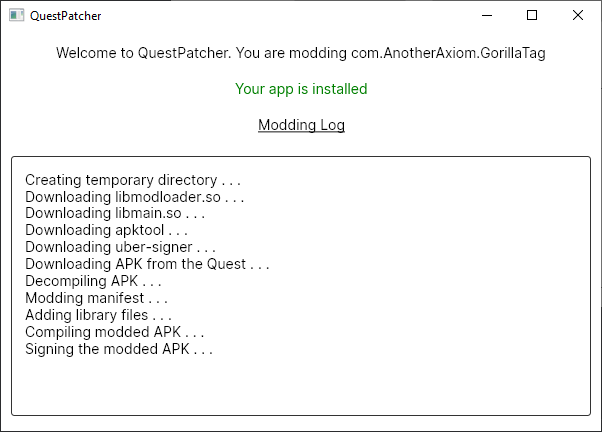
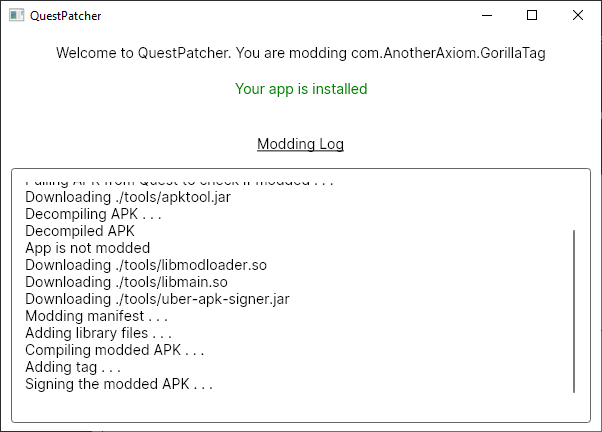
QUEST INSTRUCTIONS YAY :D

diff --git a/docs/assets/js/docsify-pagination.js b/docs/assets/js/docsify-pagination.js
@@ -248,8 +248,28 @@ var Link = function () {
     }
     this.chapter = findChapter(element);
     this.hyperlink = findHyperlink(element);
-/** THIS IS WHERE YOU PUT THE NO NAV BUTTONS PAGES */
-		let badsites = ["pc-guide", "quest-guide", "faq", "donations", "about"]
+/** THIS IS WHERE YOU PUT THE NO NAV BUTTONS PAGES 
+ * 
+ * 
+ * 
+ * 
+ * 
+ * 
+ * 
+ * 
+ * 
+ * 
+ * 
+ * 
+ * 
+ * 
+ * 
+ * 
+ * 
+ * 
+ * 
+*/
+		let badsites = ["pc-guide", "quest-guide", "faq", "tips", "about"]
 		let currentpage = window.location.href
 		let lastItem = currentpage.split('/').pop()
 		if (badsites.includes(lastItem)){

diff --git a/docs/user-guide/quest/beginners-guide.md b/docs/user-guide/quest/beginners-guide.md
@@ -7,7 +7,7 @@
 
 ## Installation
 
-Currently the only recommended way to install mods is **QuestPatcher**. Download **QuestPatcher** from [Lauriethefish's GitHub](https://github.com/Lauriethefish/QuestPatcher/releases/latest). Select the **Assets** dropdown and download the .zip file named `QuestPatcher.zip`. Extract this zip file to a folder of your choosing (that is not a folder that requires administrator permissions like Program Files.)
+Currently the only recommended way to install mods is **QuestPatcher**. Download **QuestPatcher** from [Lauriethefish's GitHub](https://github.com/Lauriethefish/QuestPatcher/releases/latest). Select the **Assets** dropdown and download the .exefile named `QuestPatcher.exe`. Double-click the executable to begin installing, and follow the instructions.
 
 > Note: If Windows alerts you that the file is unsafe/at risk, choose to keep/run anyway. This is a false-positive.
 
@@ -17,7 +17,7 @@ Currently the only recommended way to install mods is **QuestPatcher**. Download
 
 ?> **Plug in your Quest to your computer** ***first*** **before running QuestPatcher.**
 
-After you've downloaded and extracted QuestPatcher, double-click the executable to run it.
+After you've downloaded and extracted QuestPatcher, open it.
 By default, QuestPatcher should automatically detect your Gorilla Tag app.
 
 ![Gorilla Tag detected](/docs/files/questpatcherinstalled.png)
@@ -30,17 +30,17 @@ Hit the *Patch my app!* button to begin patching Gorilla Tag. You'll see the log
 
 ![QuestPatcher patching the app](/docs/files/questpatcherprocessing.png)
 
-After this, you'll be brought to the mod management screen, which means Gorilla Tag has been successfully modded. Congratulations!
+After this, you'll be brought to the mod management screen, and you'll see "*Modding complete!*" in the log, which means Gorilla Tag has been successfully modded. Congratulations!
 
 ## Managing Mods
 
 ### Installing Mods
 
-Once QuestPatcher is finished, you'll be brought to this screen. **If you are relaunching QuestPatcher in the future to manage your mods, be sure to select the "*I've already modded my game*" button to be brought directly to this screen.**
+Once QuestPatcher is finished, you'll be brought to this screen. **If you are relaunching QuestPatcher in the future to manage your mods, be sure your Quest is plugged in before launching, as you'll be brought directly to this screen.**
 
 ![Manage mods screen](/docs/files/questpatchermods.png)
 
-Next, click the *Browse for Mods* button, and locate a .qmod you would like to install, and open it. You can download the mod(s) you wish to install from GitHub, the [GorillaTag Modding Discord](https://discord.gg/b2MhDBAzTv) **#quest-mod-releases** channel, or other sources. **Make sure to download any dependencies required by the mod.**
+Next, click the *Browse for Mods* button, and locate a .qmod you would like to install, and open it. You can download the mod(s) you wish to install from GitHub, the [GorillaTag Modding Discord](https://discord.gg/b2MhDBAzTv) **#quest-mod-releases** channel, or other sources. **Dependencies should auto-download, but if they do not, make sure to download them.**
 
 After opening the .qmods you wish to install, they should appear in the mod management screen. You can repeat this process to install whatever mods you like.
 
@@ -49,3 +49,15 @@ After opening the .qmods you wish to install, they should appear in the mod mana
 ### Uninstalling Mods
 
 Select the *Uninstall mod* button within the mod management screen to uninstall that mod.
+
+## Managing Cosmetics
+
+> **Make sure you have the Gorilla Cosmetics mod installed and you have run the game once with it installed first before following these instructions.**
+
+Open SideQuest, and connect your Quest, then click the folder icon at the top. Then, navigate to `sdcard/ModData/com.AnotherAxiom.GorillaTag/Mods/GorillaCosmetics`.
+
+You should see this screen.
+
+![Gorilla Cosmetics Folder](/docs/files/sidequestcosmetics.png)
+
+Then, you can either navigate to the `Hats` or `Materials` folder, and drag in any .hat or .gmat file into the Hats or Materials folders, respectively. To remove a cosmetic, simply delete the .hat or .gmat file from these folders.

diff --git a/docs/user-guide/introduction.md b/docs/user-guide/introduction.md
@@ -1,4 +1,4 @@
-# Gorilla Tag Modding Guide
+# Gorilla Tag Modding Guide {docsify-ignore-all}
 ---
 Get up and running with modifications to Gorilla Tag to enhance your experience.  
 Reject humanity, return to monke.
@@ -6,29 +6,31 @@ Reject humanity, return to monke.
 ?> **Discord Help**
 For live support with this guide please visit us in **#installation-help** on the [GorillaTag Modding Discord](https://discord.gg/b2MhDBAzTv) and ask, in English, for assistance. Please read our [Frequently Asked Questions](faq) page beforehand to see if your question has already been answered.
 
-### What can you do with mods? {docsify-ignore}
+> If you appreciate this guide, [the main writer accepts tips](https://streamelements.com/burritosoft/tip).
+
+### What can you do with mods?
 
 While modding Gorilla Tag is at its early stage, you can:
 - Customize your gorilla with custom materials, infected materials, and hats with [*Gorilla Cosmetics*](https://github.com/legoandmars/GorillaCosmetics)
-- Fly, power jump, and float in anti-gravity with [*Super Monke*](https://github.com/jeydevv/Super-Monke)
-- Make your jumps huge with *Space Monke* (available in the GorillaTag Modding Discord)
+- Add various modes like "Super Monke", "Tag Gun", and "Speed Boost" with [*Monke Mod Menu*](https://github.com/jeydevv/MonkeModMenu)
+- Jump high with [*Space Monke*](https://github.com/legoandmars/SpaceMonke)
+- Enhance the gorilla computer, see your currently loaded mods, change monitor POV, and more with [*Computer Interface*](https://github.com/ToniMacaroni/ComputerInterface)
 
 More mods will be developed as time progresses, and will be published in the **Downloads** category on the [GorillaTag Modding Discord](https://discord.gg/b2MhDBAzTv).
 
-### Is modding the game safe? {docsify-ignore}
+### Is modding the game safe?
 
 Modding the game is allowed by the developers of Gorilla Tag, however keep in mind the following:
 
-!> The use of mods inside public lobbies is forbidden by the developers and can result in a ban. Please keep mods contained to private lobbies.
+!> The use of mods inside public lobbies is forbidden by the developers and can result in a ban. Please keep mods contained to private lobbies. **Most mods automatically disable joining public lobbies, but please be careful.**
 
-### End Goal {docsify-ignore}
+### End Goal
 
-This guide has the end goal of taking a completely unmodified Gorilla Tag installation from vanilla to modded with BepInEx.
-
->
-> For now, this guide only applies to the PC version of Gorilla Tag. Quest instructions will be added at a later date when a mod manager for Quest is developed.
->
+This guide has the end goal of taking a completely unmodified Gorilla Tag installation from vanilla to modded with BepInEx (PC) or QuestLoader (Quest).
 
 ---
 
-### [Continue to PC Modding](pc-guide) {docsify-ignore}
+>
+> ### Get started by choosing the platform you want to mod!
+> Press the Next button at the bottom right.
+>

diff --git a/docs/extras/faq.md b/docs/extras/faq.md
@@ -1,5 +1,35 @@
-# Frequently Asked Questions {docsify-ignore-all}
+# Frequently Asked Questions
 ---
-### SoonTM
 
-SoonTM
+## Modding Questions
+
+### Isn't modding the game cheating? {docsify-ignore}
+
+As long as you are using mods **only in private lobbies**, you won't be cheating. If you are using them in public lobbies, you are subject to reports/bans.
+
+?> **Most mods automatically disable joining public lobbies, but please be careful.**
+
+### Where can I get mods? {docsify-ignore}
+
+**For PC:** Open Monke Mod Manager and select the checkboxes besides the mods you'd like to install, and then hit the *Install/Update* button.  
+For mods outside of Monke Mod Manager, download them, whether it be from GitHub, the [GorillaTag Modding Discord](https://discord.gg/b2MhDBAzTv) **#pc-mod-releases** channel, or other sources. **Make sure to download any dependencies required by the mod.**
+
+**For Quest:** You can download the mod(s) you wish to install from GitHub, the [GorillaTag Modding Discord](https://discord.gg/b2MhDBAzTv) **#quest-mod-releases** channel, or other sources. **Dependencies should auto-download in QuestPatcher, but if they do not, make sure to download them.**
+## Game Questions
+
+### What is Gorilla Tag? {docsify-ignore}
+
+From the developer:
+
+> Reject humanity.
+>
+> Run, climb, and jump in VR using a unique locomotion method that only needs the movement of your hands and arms. No buttons, no sticks, no teleportation. Push off of surfaces to jump and squeeze them with both hands to climb. The game mode is simple tag, for up to 3 players, or infection mode, with 4 or more. Run from the infected gorillas, or outmaneuver the survivors to catch them. Parkour up trees and cliff faces to evade and chase people down. Hang out in a virtual, low-fi jungle with randos or group up in a private room with friends to hang out and play. The stakes are low, so feel free to just chat or make up your own games. The movement is easy to learn, and hard to master. Crossplay with the PCVR & Quest version of the game, so play with anyone, anywhere.
+>
+> Become gorilla.
+
+### Where can I get Gorilla Tag? {docsify-ignore}
+
+You can download Gorilla Tag **for free** from Steam or SideQuest.
+
+> ### [![Steam Logo](https://icongr.am/simple/steam.svg?color=A9A9A9&size=18.72)](https://store.steampowered.com/app/1533390/Gorilla_Tag/)&nbsp;[**Download on Steam**](https://store.steampowered.com/app/1533390/Gorilla_Tag/) {docsify-ignore}
+> ### [![Oculus Logo](https://icongr.am/simple/oculus.svg?color=A9A9A9&size=18.72)](https://sidequestvr.com/app/2157/gorilla-tag)&nbsp;[**Download on SideQuest**](https://sidequestvr.com/app/2157/gorilla-tag) {docsify-ignore}

diff --git a/docs/user-guide/pc/beginners-guide.md b/docs/user-guide/pc/beginners-guide.md
@@ -2,7 +2,7 @@
 ---
 >
 > This guide only applies to the PC version of Gorilla Tag.  
-> If you're using a Quest (without Link), stay tuned!
+> If you're using a Quest (without Link), go to the [**Quest Modding**](quest-guide) guide.
 
 ## Installers
 
@@ -29,7 +29,7 @@ Go to the [**Install Folder**](#install-folder) section to find your installatio
 
 Next, you may select any mods that are listed. BepInEx is the modloader for Gorilla Tag and cannot be unchecked. To update a mod, simply select the installed mod again. If you would like to get more information on a mod, click on it then hit the *View Mod Info* button.
 
-After you select the mods you would like to install/update, hit the *Install/Update* button to begin the process. When the status monitor in the bottom left says "**Install complete!**", you're almost there! 
+After you select the mods you would like to install/update, hit the *Install/Update* button to begin the process. When the status monitor in the bottom left says "*Install complete!*", you're almost there! 
 
 If it's your first time modding (or starting with a clean install), you'll need to launch Gorilla Tag once and close it to initialize BepInEx. **You may not see any mods load the first time you launch Gorilla Tag after modding, this is normal.**  
 After that, re-launch Gorilla Tag and if everything went well, your mods will now load into the game. Congratulations!

diff --git a/docs/user-guide/chooseguide.md b/docs/user-guide/chooseguide.md
@@ -1,0 +1,28 @@
+# Choose Your Platform {docsify-ignore-all}
+---
+
+Gorilla Tag is available for both PC and Oculus Quest. Since the modding scene is different for both platforms, the beginners guide is split into [**PC Modding**](pc-guide) and [**Quest Modding**](quest-guide).
+
+## ![Steam Logo](https://icongr.am/simple/steam.svg?color=A9A9A9&size=24)&nbsp;PC Modding
+
+If you are using SteamVR, follow our [**PC Modding**](pc-guide) guide.
+
+Applicable hardware includes:
+
+- Valve Index
+- HTC Vive/Vive Pro/Vive Pro Eye/Cosmos
+- Oculus Rift/Rift S
+- Windows Mixed Reality headsets
+- Oculus Quest/Quest 2 using [**Oculus Link**](https://support.oculus.com/444256562873335/)
+
+> ### [![Steam Logo](https://icongr.am/simple/steam.svg?color=A9A9A9&size=18.72)](pc-guide)&nbsp;[**Continue with PC Modding**](pc-guide)
+
+## ![Oculus Logo](https://icongr.am/simple/oculus.svg?color=A9A9A9&size=24)&nbsp;Quest Modding
+
+If you are using the Oculus Quest version of the game, follow our [**Quest Modding**](quest-guide) guide.
+
+Applicable hardware includes:
+
+- Oculus Quest/Quest 2
+
+> ### [![Oculus Logo](https://icongr.am/simple/oculus.svg?color=A9A9A9&size=18.72)]()&nbsp;[**Continue with Quest Modding**](quest-guide)

diff --git a/docs/sidebar.md b/docs/sidebar.md
@@ -1,11 +1,15 @@
 - **User Guide**
-- [Introduction](introduction)
+- [Introduction](/)
+- [Choose Your Platform](choose-guide)
 - **PC Modding**
 - [Beginner's Guide](pc-guide)
+- **Quest Modding**
+- [Beginner's Guide](quest-guide)
 - **Extras**
 - [Frequently Asked Questions](faq)
 - **Links**
-- [![GitHub](https://icongr.am/simple/github.svg?color=808080&size=16)GitHub](https://github.com/burritosoftware/GorillaTag-Modding-Guide)
 - [![Discord](https://icongr.am/simple/discord.svg?colored&size=16)Discord](https://discord.gg/b2MhDBAzTv)
-- [Donate](donations)
+- [![GitHub](https://icongr.am/simple/github.svg?color=808080&size=16)GitHub](https://github.com/burritosoftware/GorillaTag-Modding-Guide)
+- [![PayPal](https://icongr.am/simple/paypal.svg?color=808080&size=16)Tips](https://streamelements.com/burritosoft/tip)
+- [![GoatCounter](https://icongr.am/fontawesome/group.svg?color=808080&size=16)Analytics](https://burrito.goatcounter.com/)
 - [About](about)

diff --git a/docs/extras/about.md b/docs/extras/about.md
@@ -4,11 +4,11 @@ This guide is mainly written by [Burrito](https://twitter.com/BurritoSOFTWARE), 
 
 > **Credits**
 >
-> **Burrito, Steven, Bobbie, Nintendo Homebrew Discord Staff (original guide creators)**
+> **Burrito, Steven, Bobbie, Lauriethefish, Nintendo Homebrew Discord Staff (original guide creators)**
 >
 > Thank you to [everyone else](https://github.com/burritosoftware/GorillaTag-Modding-Guide/graphs/contributors) that contributed to the guide on GitHub.
 
-?> [You can find this guide on GitHub](https://github.com/burritosoftware/GorillaTag-Modding-Guide), It is licensed under the [ISC License](https://github.com/burritosoftware/GorillaTag-Modding-Guide/blob/master/LICENSE.md).
+?> [You can find this guide on GitHub](https://github.com/burritosoftware/GorillaTag-Modding-Guide). It is licensed under the [ISC License](https://github.com/burritosoftware/GorillaTag-Modding-Guide/blob/master/LICENSE.md).
 
 >
 > **Developer / Tool Credits**
